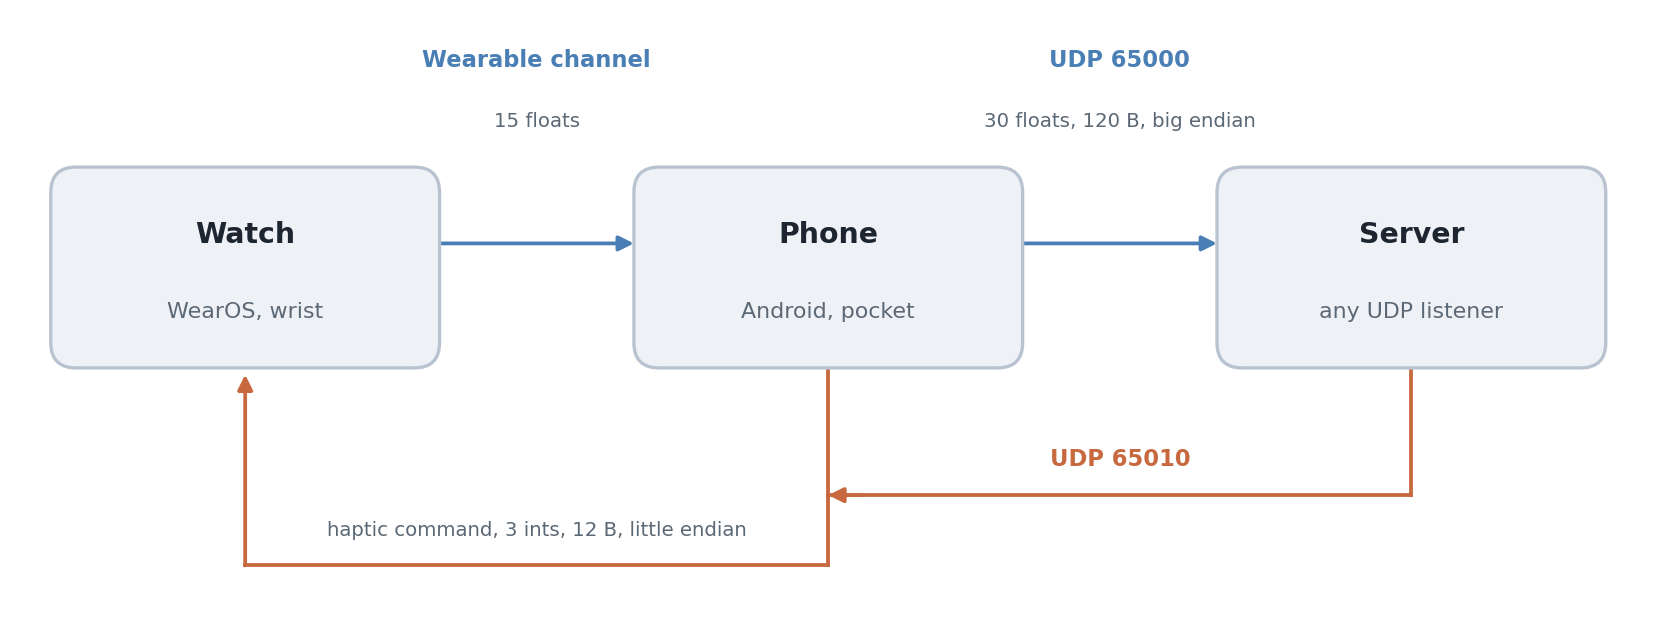
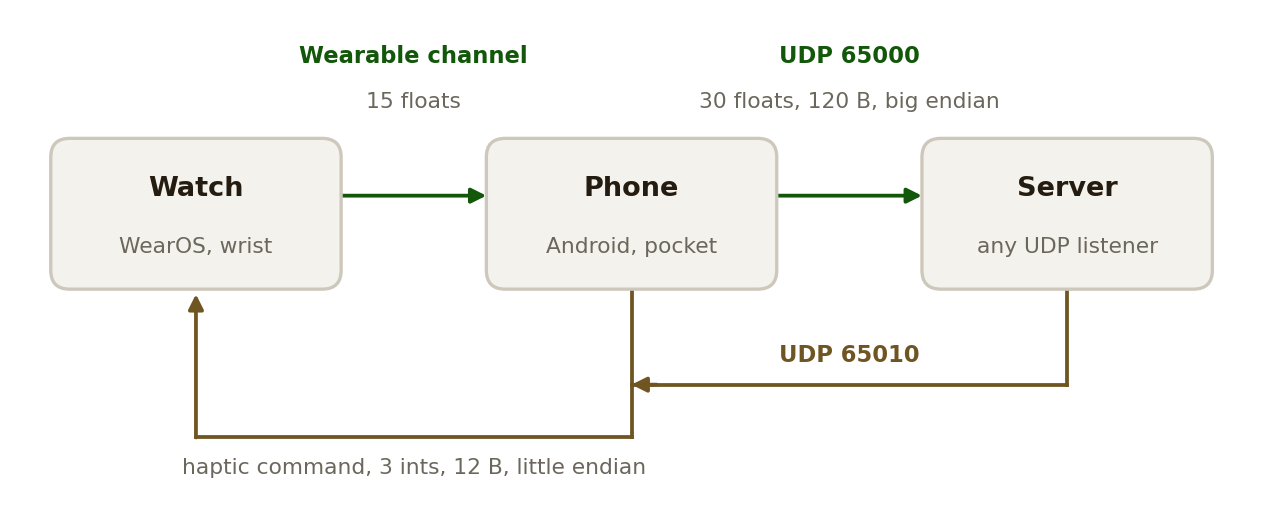
Rebuild README to the second standard
Centered header with shields badges in the fixed order and a captioned hero
redrawn with the shared figstyle palette on a transparent ground: sensors
out in green, the haptic return in gold. Usage points become subheadings.
A Related section names IVO, IMU_Gesture_Classifier and CapstoneVOX, and the
derivation from wearable-motion-capture moves into a Credits section.
American spelling.

diff --git a/docs/figures/make_hero.py b/docs/figures/make_hero.py
@@ -1,42 +1,34 @@
-"""Render the system figure used at the top of the README.
+"""Draw the README hero: watch, phone and server, and the two directions between them.
 
     python docs/figures/make_hero.py
 
-Writes hero_system.png and hero_system-dark.png. The dark file is what the
-README serves to readers whose browser is in dark mode.
+Writes hero_system.png and hero_system-dark.png.
 """
 import os
+import sys
 
-import matplotlib
-matplotlib.use("Agg")
-import matplotlib.pyplot as plt
-from matplotlib.patches import FancyBboxPatch, FancyArrowPatch
+HERE = os.path.dirname(os.path.abspath(__file__)) + os.sep
+sys.path.insert(0, HERE)
 
-THEMES = {
-    "light": dict(bg="white", ink="#1c2530", muted="#5b6875", line="#b9c3cf",
-                  fill="#eef2f6", up="#4a7fb5", down="#c8683f"),
-    "dark": dict(bg="#0d1117", ink="#e6edf3", muted="#9198a1", line="#3d444d",
-                 fill="#161b22", up="#6ea8dd", down="#e08a5c"),
-}
-
-HERE = os.path.dirname(os.path.abspath(__file__))
+import figstyle  # noqa: E402
+import matplotlib.pyplot as plt  # noqa: E402
+from matplotlib.patches import FancyArrowPatch, FancyBboxPatch  # noqa: E402
 
 
-def render(theme, out):
-    T = THEMES[theme]
-    fig, ax = plt.subplots(figsize=(9.6, 3.6), dpi=170)
+def system(T):
+    fig, ax = plt.subplots(figsize=(figstyle.WIDTH, 3.6))
     ax.set_xlim(0, 96)
-    ax.set_ylim(0, 36)
+    ax.set_ylim(-1.5, 36)
     ax.axis("off")
-    fig.patch.set_facecolor(T["bg"])
+    UP, DOWN = T["green"], T["gold"]     # sensors out in green, the haptic return in gold
 
     def box(x, y, w, h, title, sub):
         ax.add_patch(FancyBboxPatch((x, y), w, h, boxstyle="round,pad=0,rounding_size=1.5",
                                     linewidth=1.4, edgecolor=T["line"], facecolor=T["fill"], zorder=2))
         ax.text(x + w / 2, y + h / 2 + 2.0, title, ha="center", va="center",
-                fontsize=12, color=T["ink"], fontweight="bold", zorder=3)
+                fontsize=figstyle.TITLE, color=T["ink"], fontweight="bold", zorder=3)
         ax.text(x + w / 2, y + h / 2 - 2.6, sub, ha="center", va="center",
-                fontsize=9.4, color=T["muted"], zorder=3)
+                fontsize=figstyle.SMALL, color=T["muted"], zorder=3)
 
     def arrow(x0, y0, x1, y1, c):
         ax.add_patch(FancyArrowPatch((x0, y0), (x1, y1), arrowstyle="-|>", mutation_scale=13,
@@ -49,40 +41,34 @@ def render(theme, out):
     box(xs[1], Y, W, H, "Phone", "Android, pocket")
     box(xs[2], Y, W, H, "Server", "any UDP listener")
 
-    # Outbound: sensors to the server. Labels sit above the boxes so that a
-    # label wider than the gap cannot land on top of one.
+    # outbound: sensors to the server; labels above the boxes so a wide label cannot land on one
     yo = Y + H * 0.62
-    arrow(xs[0] + W, yo, xs[1], yo, T["up"])
-    arrow(xs[1] + W, yo, xs[2], yo, T["up"])
+    arrow(xs[0] + W, yo, xs[1], yo, UP)
+    arrow(xs[1] + W, yo, xs[2], yo, UP)
     for cx, main, sub in (
         ((xs[0] + W + xs[1]) / 2, "Wearable channel", "15 floats"),
         ((xs[1] + W + xs[2]) / 2, "UDP 65000", "30 floats, 120 B, big endian"),
     ):
-        ax.text(cx, TOP + 6.0, main, ha="center", fontsize=9.6, color=T["up"], fontweight="bold")
-        ax.text(cx, TOP + 2.4, sub, ha="center", fontsize=8.4, color=T["muted"])
+        ax.text(cx, TOP + 6.0, main, ha="center", fontsize=figstyle.BODY, color=UP, fontweight="bold")
+        ax.text(cx, TOP + 2.4, sub, ha="center", fontsize=figstyle.SMALL, color=T["muted"])
 
-    # Return: the haptic command reaches the wrist through the phone, not directly.
+    # return: the haptic command reaches the wrist through the phone, not directly
     cw, cp, cs = xs[0] + W / 2, xs[1] + W / 2, xs[2] + W / 2
     y1, y2 = 7.4, 3.2
-    ax.plot([cs, cs], [Y, y1], color=T["down"], lw=1.6, zorder=1)      # down from Server
-    ax.plot([cp, cs], [y1, y1], color=T["down"], lw=1.6, zorder=1)     # across to Phone
-    arrow(cp + 2.0, y1, cp, y1, T["down"])
-    ax.plot([cp, cp], [y1, Y], color=T["down"], lw=1.6, zorder=1)      # up into Phone
-    ax.plot([cp, cp], [y1, y2], color=T["down"], lw=1.6, zorder=1)     # down again
-    ax.plot([cw, cp], [y2, y2], color=T["down"], lw=1.6, zorder=1)     # across to Watch
-    arrow(cw, y2, cw, Y - 0.4, T["down"])                              # up into Watch
-
+    ax.plot([cs, cs], [Y, y1], color=DOWN, lw=1.6, zorder=1)
+    ax.plot([cp, cs], [y1, y1], color=DOWN, lw=1.6, zorder=1)
+    arrow(cp + 2.0, y1, cp, y1, DOWN)
+    ax.plot([cp, cp], [y1, Y], color=DOWN, lw=1.6, zorder=1)
+    ax.plot([cp, cp], [y1, y2], color=DOWN, lw=1.6, zorder=1)
+    ax.plot([cw, cp], [y2, y2], color=DOWN, lw=1.6, zorder=1)
+    arrow(cw, y2, cw, Y - 0.4, DOWN)
     ax.text((cp + cs) / 2, y1 + 1.8, "UDP 65010", ha="center",
-            fontsize=9.6, color=T["down"], fontweight="bold")
-    ax.text((cw + cp) / 2, y2 + 1.8, "haptic command, 3 ints, 12 B, little endian",
-            ha="center", fontsize=8.4, color=T["muted"])
-
-    fig.tight_layout(pad=0.2)
-    fig.savefig(out, dpi=170, bbox_inches="tight", facecolor=T["bg"])
-    plt.close(fig)
-    print("wrote", out)
+            fontsize=figstyle.BODY, color=DOWN, fontweight="bold")
+    # below the return line, where no vertical run can cross the label
+    ax.text((cw + cp) / 2, y2 - 2.4, "haptic command, 3 ints, 12 B, little endian",
+            ha="center", va="center", fontsize=figstyle.SMALL, color=T["muted"])
+    return fig
 
 
 if __name__ == "__main__":
-    render("light", os.path.join(HERE, "hero_system.png"))
-    render("dark", os.path.join(HERE, "hero_system-dark.png"))
+    figstyle.save_both(system, HERE + "hero_system")

diff --git a/docs/figures/figstyle.py b/docs/figures/figstyle.py
@@ -1,0 +1,123 @@
+"""House style for README figures. Copy this file next to make_hero.py.
+
+One palette for every repository, taken from the portfolio site, so a README
+figure, a social preview card and the site read as one hand. Light figures sit
+on GitHub's white canvas, dark figures on its #0d1117 canvas. Both are saved
+with a transparent background: GitHub paints its own canvas behind README
+images, so the figure follows whichever theme the reader has, including the
+dimmed dark theme, without a visible rectangle.
+
+Type: if a fonts/ directory sits beside this file with Archivo-Regular.ttf,
+Archivo-SemiBold.ttf and IBMPlexMono-Medium.ttf (built by
+_standards/fonts/build_fonts.py), labels are set in Archivo and numbers in IBM
+Plex Mono, the site's faces. Without it, DejaVu Sans, so nothing breaks.
+
+    import figstyle
+
+    def draw(T):                       # T is one entry of figstyle.PALETTE
+        fig, ax = plt.subplots(figsize=(figstyle.WIDTH, 4.6))
+        ax.text(..., fontfamily=figstyle.MONO)     # numbers
+        return fig
+
+    figstyle.save_both(draw, HERE + "hero_scenarios")
+    # writes hero_scenarios.png and hero_scenarios-dark.png
+
+Contrast on the canvas each theme is drawn for, WCAG ratio: light green 8.8,
+light gold 7.0, light muted 5.4; dark green 9.8, dark gold 8.4, dark muted 8.2.
+"""
+import glob
+import os
+
+import matplotlib
+
+matplotlib.use("Agg")
+import matplotlib.pyplot as plt
+from matplotlib import font_manager
+
+PALETTE = {
+    "light": dict(
+        canvas="#ffffff",       # GitHub light canvas, for reference only, never painted
+        ink="#241c10",          # site day ink
+        soft="#332918",
+        muted="#6b675c",
+        line="#cdc8bb",
+        fill="#f4f2ec",         # box fill, a warm paper tint on white
+        green="#12570a",        # site day green
+        gold="#6f5522",         # site day gold
+        green_fill="#e6efe2",
+        gold_fill="#f2ebdd",
+    ),
+    "dark": dict(
+        canvas="#0d1117",       # GitHub dark canvas, for reference only, never painted
+        ink="#ece7d9",          # site night ink, bone white
+        soft="#ddd9cb",
+        muted="#a9ac9b",
+        line="#3a3c33",
+        fill="#161811",
+        green="#44d62c",        # site night green, phosphor
+        gold="#c9a96a",         # site night gold, brass
+        green_fill="#12200f",
+        gold_fill="#26211a",
+    ),
+}
+
+DPI = 170
+WIDTH = 9.2      # inches. 900 / (9.2 * 170) = 0.575, so labels survive the README column.
+TITLE = 11.5     # point sizes the standard fixes
+BODY = 9.6
+SMALL = 9.2
+
+_FONTS = os.path.join(os.path.dirname(os.path.abspath(__file__)), "fonts")
+_have_fonts = False
+for _p in glob.glob(os.path.join(_FONTS, "*.ttf")):
+    font_manager.fontManager.addfont(_p)
+    _have_fonts = True
+_names = {f.name for f in font_manager.fontManager.ttflist}
+SANS = "Archivo" if _have_fonts and "Archivo" in _names else "DejaVu Sans"
+MONO = "IBM Plex Mono" if _have_fonts and "IBM Plex Mono" in _names else "DejaVu Sans Mono"
+
+
+def apply(T):
+    """Set matplotlib defaults for one theme. Called by save_both before draw()."""
+    plt.rcParams.update({
+        "font.family": SANS,
+        "font.size": BODY,
+        "text.color": T["ink"],
+        "axes.labelcolor": T["muted"],
+        "axes.edgecolor": T["line"],
+        "axes.linewidth": 1.0,
+        "axes.titlesize": TITLE,
+        "axes.titleweight": "bold",
+        "axes.titlecolor": T["ink"],
+        "axes.spines.top": False,
+        "axes.spines.right": False,
+        "axes.grid": False,
+        "xtick.color": T["muted"],
+        "ytick.color": T["muted"],
+        "xtick.labelsize": BODY,
+        "ytick.labelsize": BODY,
+        "legend.frameon": False,
+        "legend.fontsize": BODY,
+        "figure.facecolor": "none",
+        "axes.facecolor": "none",
+        "savefig.facecolor": "none",
+        "savefig.edgecolor": "none",
+    })
+
+
+def mono_ticks(ax, axis="y"):
+    """Set an axis's tick labels in the numeric face."""
+    for label in (ax.get_yticklabels() if axis == "y" else ax.get_xticklabels()):
+        label.set_fontfamily(MONO)
+
+
+def save_both(draw, stem):
+    """Render draw(T) once per theme and write <stem>.png and <stem>-dark.png."""
+    for theme, suffix in (("light", ""), ("dark", "-dark")):
+        T = PALETTE[theme]
+        apply(T)
+        fig = draw(T)
+        out = f"{stem}{suffix}.png"
+        fig.savefig(out, dpi=DPI, bbox_inches="tight", pad_inches=0.15, transparent=True)
+        plt.close(fig)
+        print("wrote", out)

diff --git a/README.md b/README.md
@@ -1,19 +1,27 @@
+<div align="center">
+
 # IMU Streaming App
 
 Yuhyeon Lee · 2025
 
+[![build](https://img.shields.io/github/actions/workflow/status/blueion0612/IMU_Stream_APP_MJU/build.yml?branch=main&label=build)](https://github.com/blueion0612/IMU_Stream_APP_MJU/actions/workflows/build.yml)
 [![License](https://img.shields.io/github/license/blueion0612/IMU_Stream_APP_MJU)](LICENSE)
-[![Platform](https://img.shields.io/badge/platform-Android%20%2B%20WearOS-blue)](https://developer.android.com/)
 [![Kotlin](https://img.shields.io/badge/kotlin-1.8.10-blue)](https://kotlinlang.org/)
-[![build](https://github.com/blueion0612/IMU_Stream_APP_MJU/actions/workflows/build.yml/badge.svg)](https://github.com/blueion0612/IMU_Stream_APP_MJU/actions/workflows/build.yml)
 [![Status](https://img.shields.io/badge/status-research%20code-orange)](#limitations)
+[![Platform](https://img.shields.io/badge/platform-Android%20%2B%20WearOS-lightgrey)](#requirements)
 
-[**Protocol**](docs/protocol.md) · [**Architecture**](docs/architecture.md) · [**Upstream**](https://github.com/wearable-motion-capture/sensor-stream-apps)
+[**Protocol**](docs/protocol.md) · [**Architecture**](docs/architecture.md) · [**Upstream**](https://github.com/wearable-motion-capture/sensor-stream-apps) · [**Related**](#related)
 
 <picture>
   <source media="(prefers-color-scheme: dark)" srcset="docs/figures/hero_system-dark.png">
   <img alt="Watch streams to the phone over the wearable channel, the phone sends both devices to a server over UDP, and haptic commands return through the phone" src="docs/figures/hero_system.png">
 </picture>
+
+</div>
+
+*Sensors flow out in green, from the watch through the phone to any UDP listener.
+The haptic command returns in gold, through the phone to the wrist. Packet sizes and
+ports are the ones `docs/protocol.md` specifies.*
 
 **IMU Streaming App** puts a wrist device and a phone on the same UDP socket. The
 watch streams its sensors to the phone over the wearable channel, the phone merges
@@ -56,10 +64,14 @@ version is 30 big-endian floats on UDP 65000.
 
 ## Usage
 
-**Change where the data goes.** Settings on the phone stores the address and port;
+### Change where the data goes
+
+Settings on the phone stores the address and port;
 the defaults are `192.168.1.138` and `65000`.
 
-**Send a haptic command.** Three little-endian integers to UDP 65010 on the phone:
+### Send a haptic command
+
+Three little-endian integers to UDP 65010 on the phone:
 intensity 1 to 255, pulse count 1 to 10, and milliseconds per pulse 50 to 500.
 
 ```python
@@ -68,7 +80,9 @@ sock = socket.socket(socket.AF_INET, socket.SOCK_DGRAM)
 sock.sendto(struct.pack("<iii", 200, 1, 100), ("192.168.1.138", 65010))
 ```
 
-**When nothing arrives.** The watch shows whether it has found the phone; if it has
+### When nothing arrives
+
+The watch shows whether it has found the phone; if it has
 not, re-pair them over Bluetooth and restart both apps. If the watch is connected
 but the server is silent, the phone's address is usually pointing somewhere else,
 or the server's firewall is dropping UDP.
@@ -83,7 +97,7 @@ scripts/
 docs/
   protocol.md            wire format, both directions
   architecture.md        module map, permissions, what this fork changed
-  figures/               README figures and the script that draws them
+  figures/               README figure, the script that draws it, figstyle.py
 ```
 
 ## Requirements
@@ -95,7 +109,7 @@ NumPy and Matplotlib.
 
 ## Limitations
 
-- **The two devices are not time-synchronised.** Each block carries its own `dT`
+- **The two devices are not time-synchronized.** Each block carries its own `dT`
   and timestamp, and nothing aligns them. A consumer that needs them aligned has
   to do it.
 - **The phone emits only when it holds a watch sample**, so a dropped Bluetooth
@@ -107,10 +121,25 @@ NumPy and Matplotlib.
 - Tested on one Samsung Galaxy Watch and one Android phone on a single WiFi
   network. Nothing here has been checked on other hardware.
 
-## License
+## Related
 
-MIT. See [LICENSE](LICENSE).
+- [IVO](https://github.com/blueion0612/IVO): a presentation controller that reads
+  this app's 30-float packet and vibrates the watch back through the haptic channel.
+- [IMU_Gesture_Classifier](https://github.com/blueion0612/IMU_Gesture_Classifier):
+  trains the gesture models IVO loads. It records the upstream 55-float packet, not
+  this one, so the two are not interchangeable sources; see
+  [the protocol](docs/protocol.md).
+- [CapstoneVOX](https://github.com/blueion0612/CapstoneVOX): hand signals for
+  emergency radio, built on the same upstream streaming apps.
+
+## Credits
 
 This project derives from
 [wearable-motion-capture/sensor-stream-apps](https://github.com/wearable-motion-capture/sensor-stream-apps),
-which is also MIT. Both copyright notices are carried in `LICENSE`, as MIT requires.
+which is MIT. Both copyright notices are carried in `LICENSE`, as MIT requires, and
+[`docs/architecture.md`](docs/architecture.md) lists what this fork removed and
+changed.
+
+## License
+
+MIT. See [LICENSE](LICENSE).
